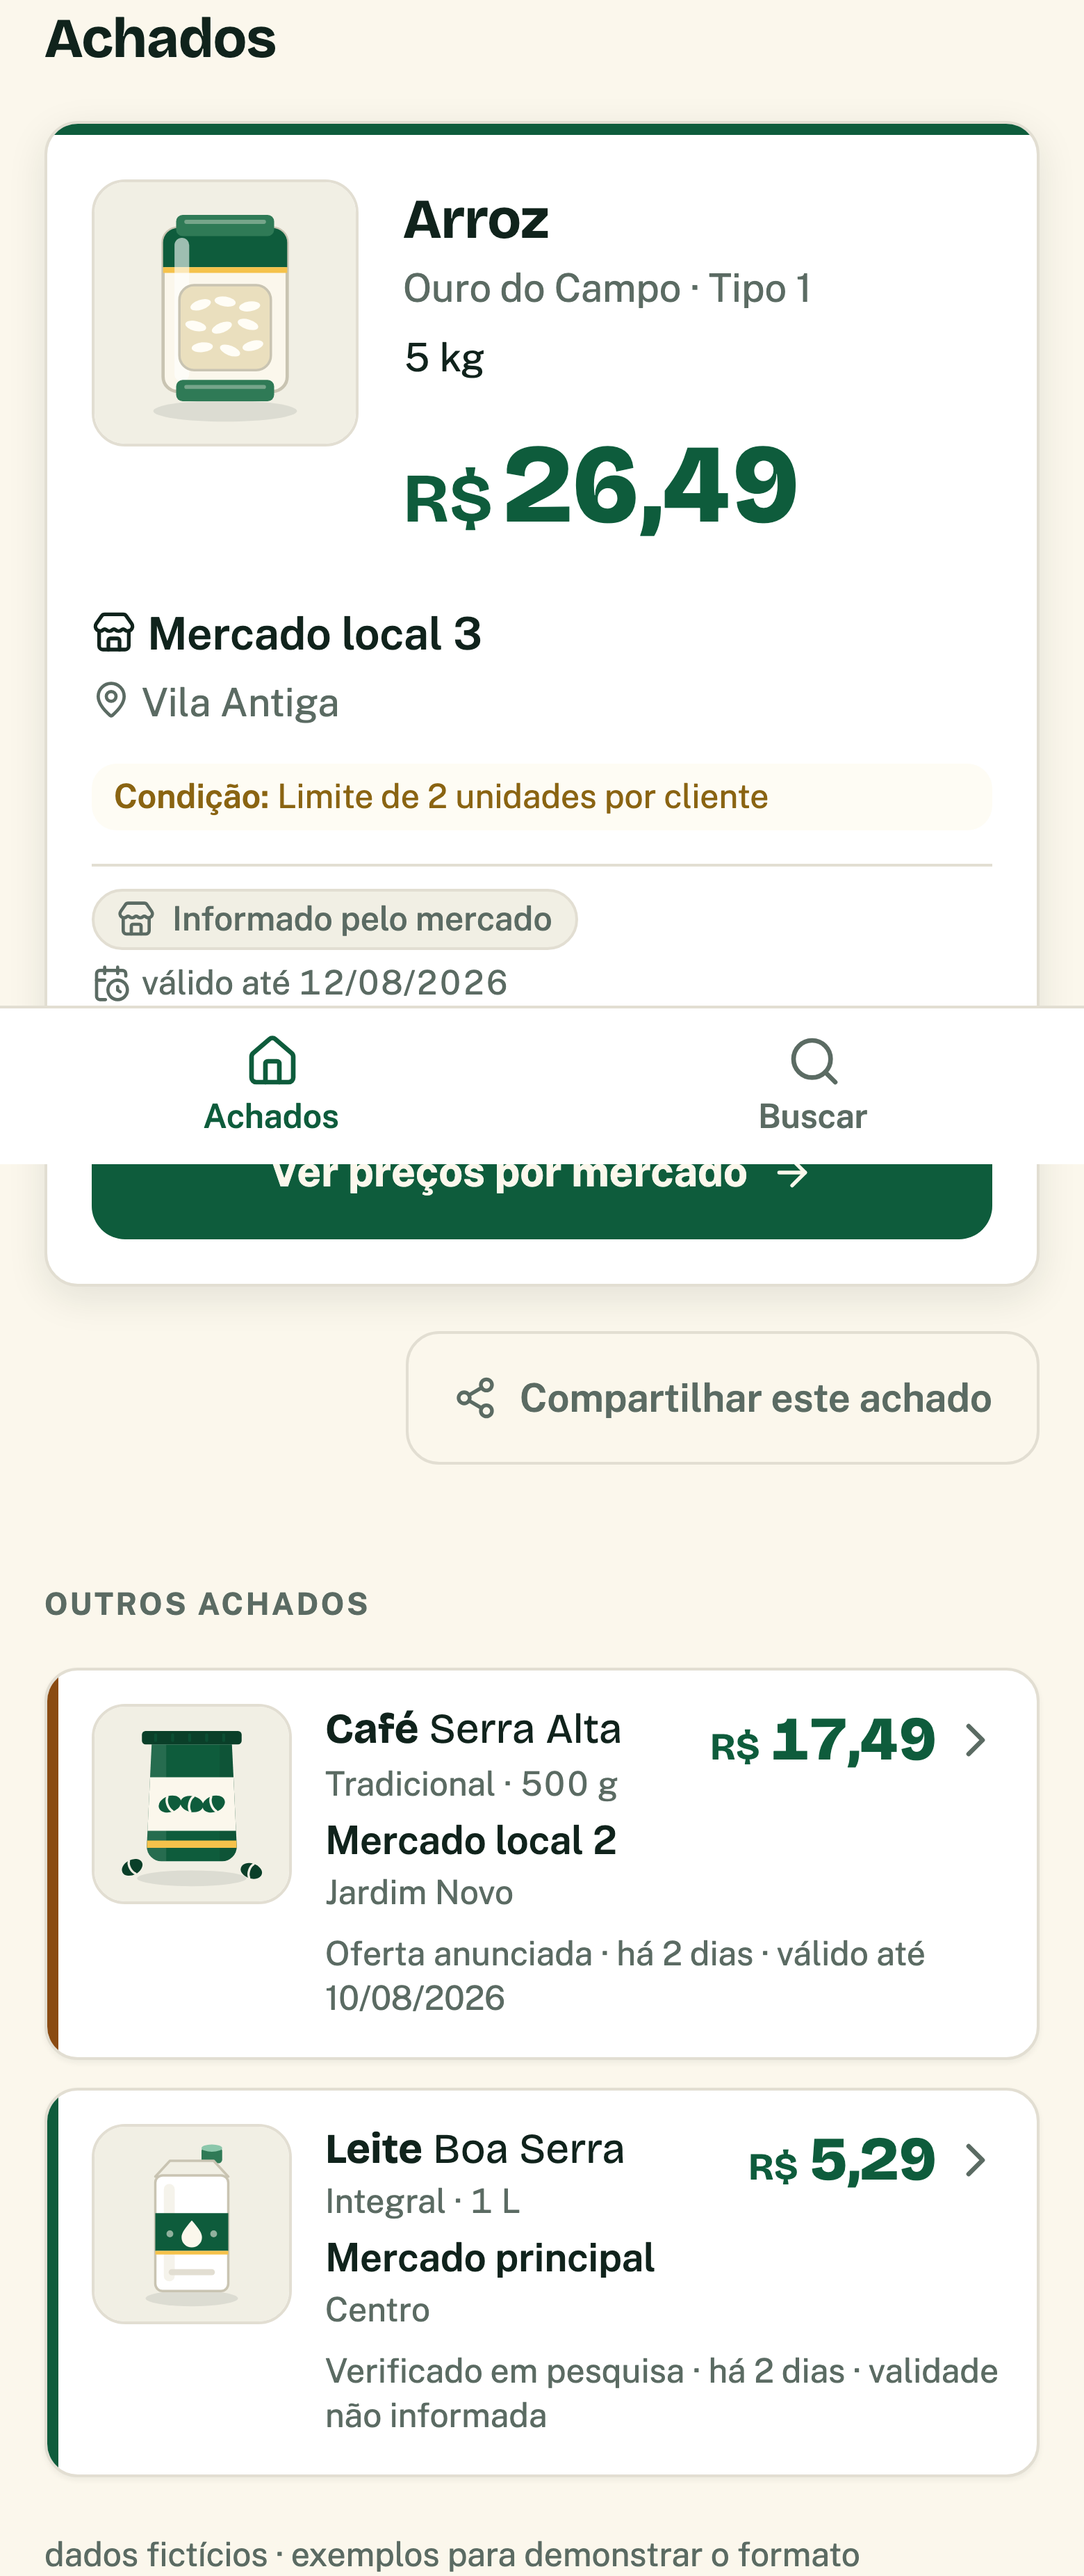
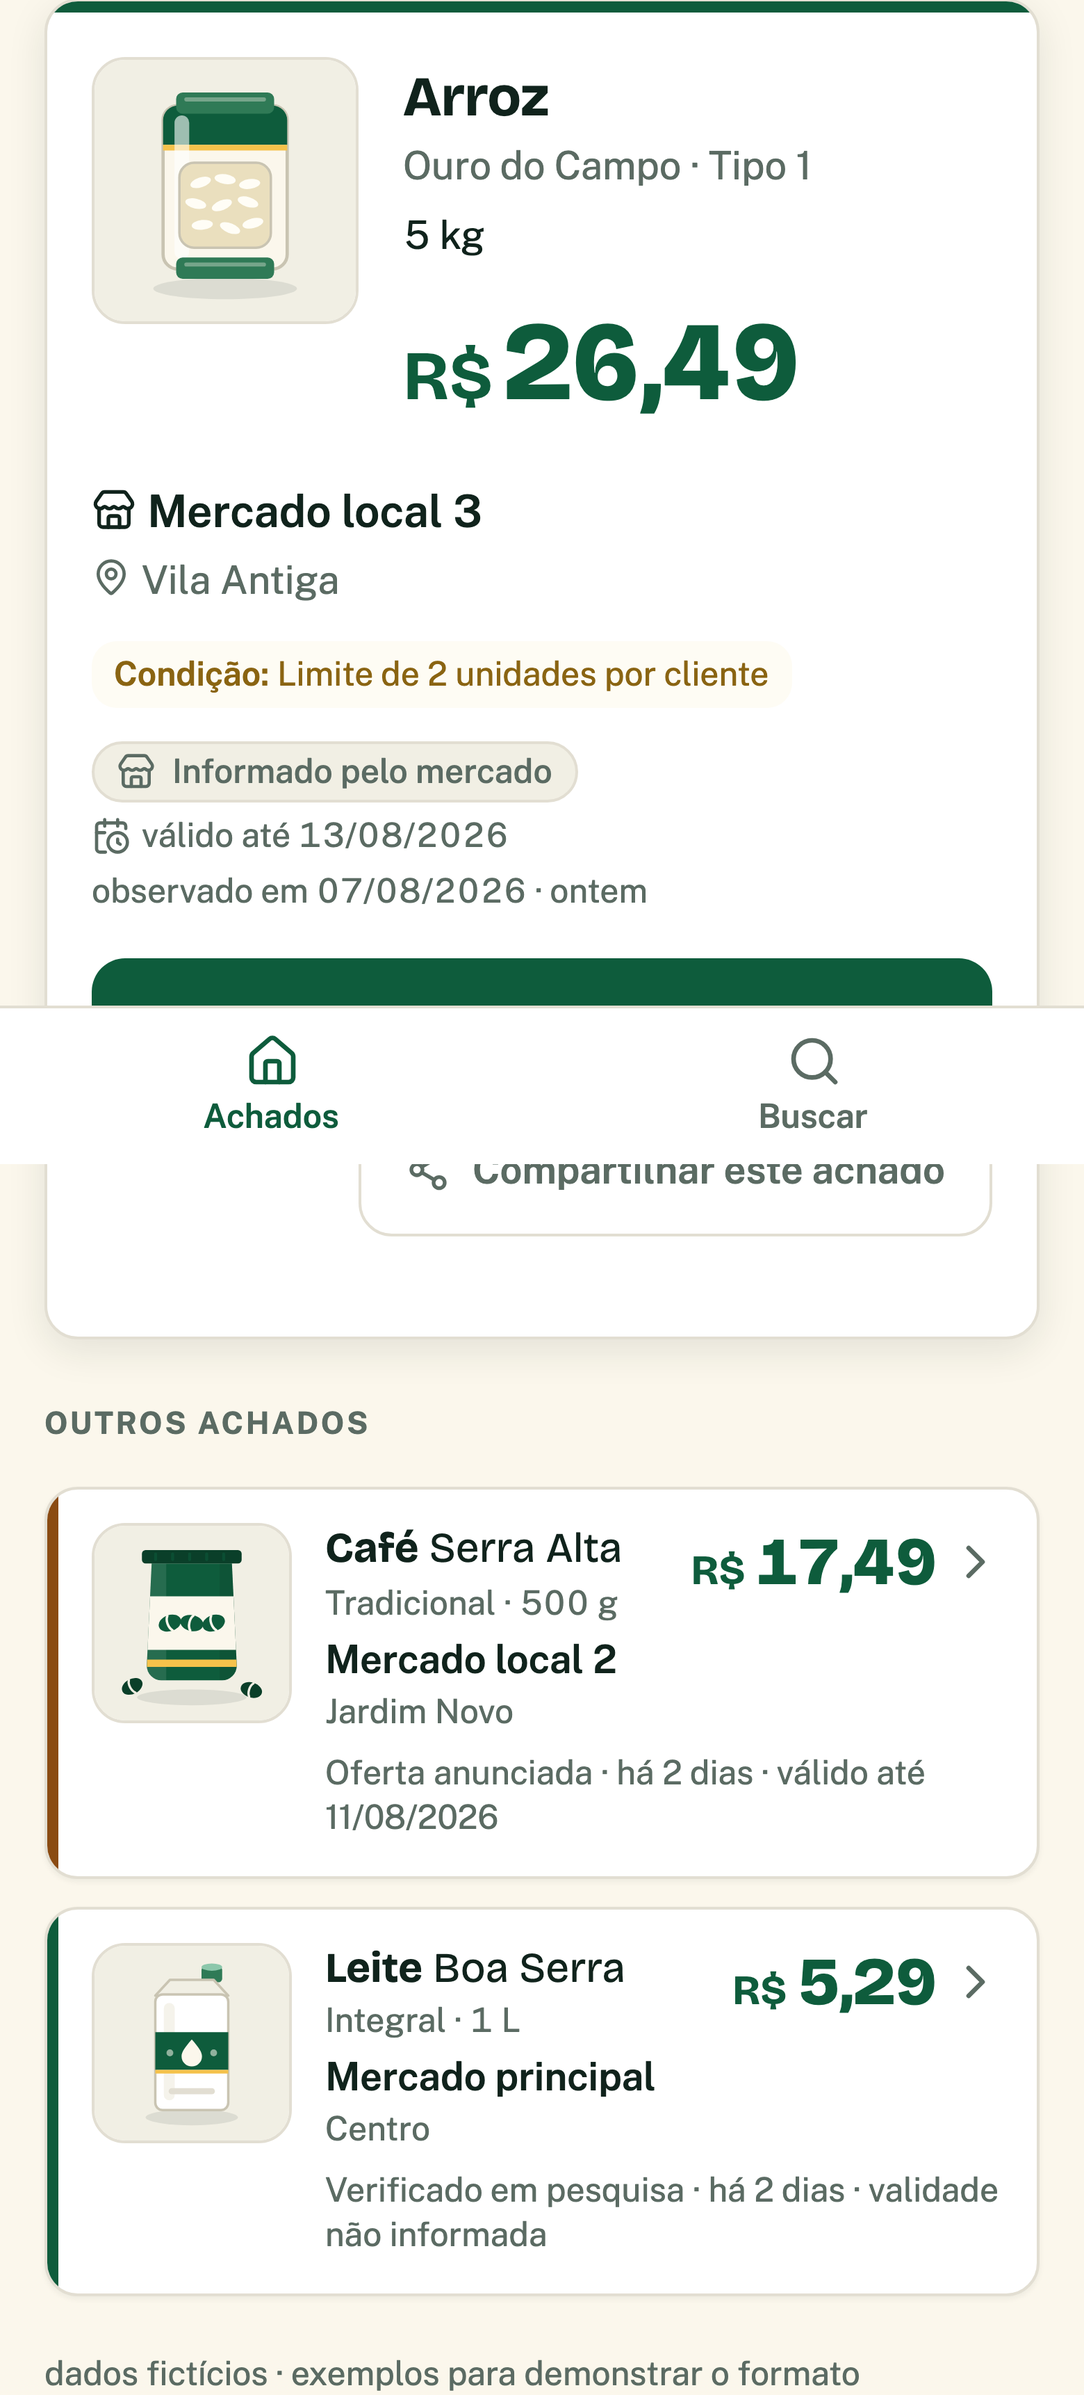
docs(demo-freeze): evidência B2C regenerada e a nota sobre a coluna B
As sete capturas saem do head atual, no mesmo navegador e no mesmo instante.
`states` e `comparison-board` capturam duas vezes e falham se os dois PNGs não
forem byte a byte idênticos — os dois saíram idênticos.

A 390 px a página foi de 4356 para 4226 pixels de dispositivo. O painel mediu 4
abas na coluna A (Achados, Buscar, Ajuda, Mercados) com 1 par de `nav` de mesmo
nome acessível, e 2 abas em C e D sem nome repetido.

Fica registrado por que a coluna B do painel continua sendo `tela-1-home.png` e
não a referência que acabou de chegar: a referência A é uma folha de CINCO
telas a 1448x1086, e a coluna tem largura de celular. Encaixá-la exigiria
recortar, e recortar um mockup de direção visual mente sobre a própria direção.
Ela vai inteira no comentário do Gate.

diff --git a/docs/evidence/visual/r33/README.md b/docs/evidence/visual/r33/README.md
@@ -13,11 +13,43 @@ animação congelada. Os scripts que os produzem estão em `scripts/visual/`.
 | `home-final-states.png`           | os sete estados da seção de Achados, lado a lado                     | `screenshot-home-estados.ts` |
 | `home-final-comparison-board.png` | quatro áreas: anterior · referência aprovada · R3.3A · entrega final | `comparison-board-home.ts`   |
 
-**A coluna D do painel é a entrega final: R3.3B mais R3.3C.** R3.3C foi a convergência estética
-pedida depois de o Founder aprovar o diagnóstico de R3.3B e ainda assim segurar o merge. O que ela
-mudou está em `DL-038`; o resumo em duas linhas é que as três ilustrações foram **redesenhadas
-para serem reconhecíveis a 64 px** e que **o preço subiu para a coluna da identidade**, ao lado da
-imagem, como a tela 1 do North Star V2 compõe.
+**A coluna D do painel é a entrega final: R3.3B, R3.3C e o Demo Freeze.** R3.3C foi a convergência
+estética pedida depois de o Founder aprovar o diagnóstico de R3.3B e ainda assim segurar o merge. O
+que ela mudou está em `DL-038`; o resumo em duas linhas é que as três ilustrações foram
+**redesenhadas para serem reconhecíveis a 64 px** e que **o preço subiu para a coluna da
+identidade**, ao lado da imagem, como a tela 1 do North Star V2 compõe.
+
+## O que o Demo Freeze mudou por cima disso
+
+As duas referências visuais que o mandato de R3.3C dizia anexar **não tinham chegado** — a mensagem
+veio só com texto, e a convergência daquela rodada foi feita contra a descrição escrita. Elas
+chegaram agora e estão versionadas em `docs/product/visual-north-star-v2/referencias/`, com os
+mesmos bytes do original: `9f5459a4…cab19d` e `2ef7f30b…ecd47d`, 1448 × 1086 as duas.
+
+O §4 não pede mais peso para o card: pede peso **redistribuído** — mais em imagem, nome, quantidade
+e preço; menos em metadata, fonte, datas e selos secundários; e nenhuma informação de confiança a
+menos. Cinco mudanças, todas nessa direção:
+
+1. **A procedência perdeu o fio e virou uma faixa que flui.** O `border-t` era o único filete do
+   card e fazia sentido quando preço e identidade eram faixas separadas; depois de R3.3C a
+   composição já separa as zonas sozinha. Fonte, validade e observação continuam as três, juntas.
+2. **A condição da promoção encolheu ao próprio texto.** Sendo um `<p>`, ela atravessava o card de
+   ponta a ponta: a largura de um banner de alerta para uma ressalva de uma linha.
+3. **O compartilhar entrou para dentro do card.** Solto entre o destaque e o rótulo da lista, era um
+   controle órfão sem nada que dissesse a que pertencia.
+4. **O `h2` "Achados" saiu da tela e ficou na árvore** (`sr-only`). O `h1` já diz "Achados em
+   Artemis" quarenta pixels acima.
+5. O preço da linha compacta foi de 1.375 rem para 1.5 rem, e o botão do bloco de procedência
+   deixou de ser largura inteira no celular.
+
+**Medido:** a página a 390 px foi de 4356 para **4226** pixels de dispositivo. Zero estouro a 320,
+duas abas, um CTA de WhatsApp, zero histórico de preço, nenhum alvo abaixo de 48 px.
+
+**A coluna B do painel continua sendo `tela-1-home.png`**, e não a referência recém-chegada. O
+motivo é geométrico: a referência A é uma folha de **cinco telas** a 1448 × 1086, e a coluna do
+painel tem largura de celular. Encaixá-la ali exigiria recortar — e recortar um mockup de direção
+visual mente sobre a própria direção. Ela está publicada inteira, em tamanho real, no comentário do
+Gate. O painel compara aplicação com aplicação; a referência fica a um clique.
 
 **O conjunto `home-achados-*.png` saiu.** Ele fotografava a Home de R3.3A, que o Founder reprovou
 na direção visual — e evidência de um desenho superado guardada ao lado da evidência correta é
